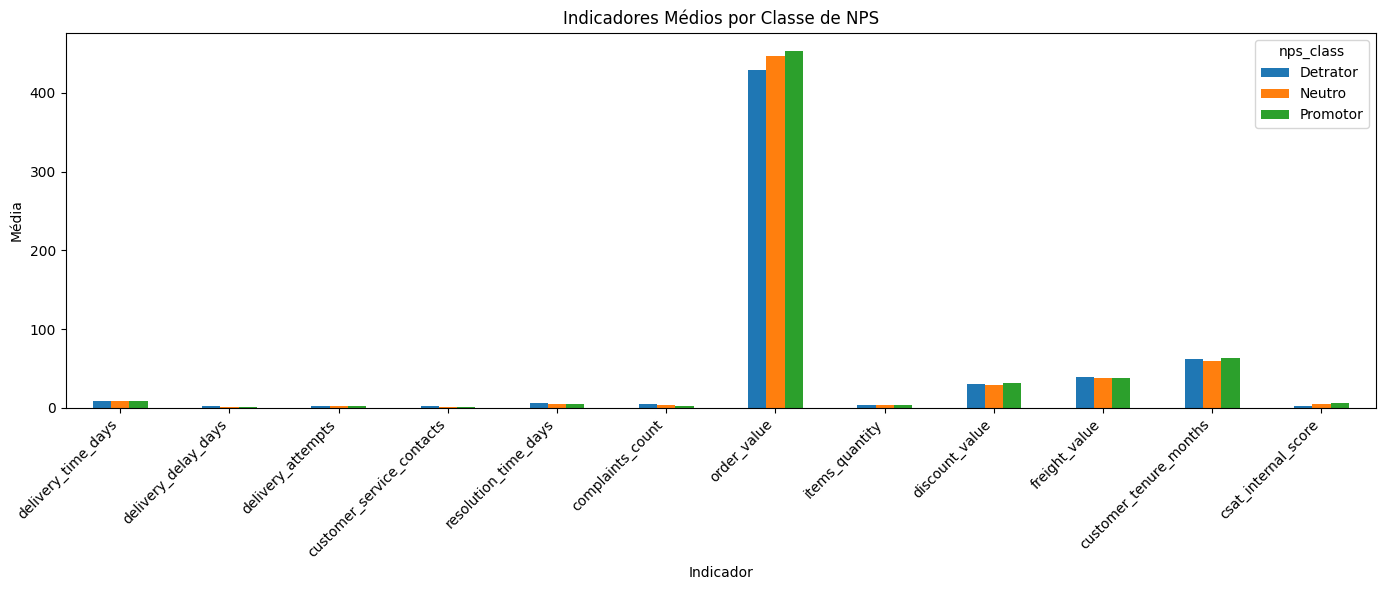
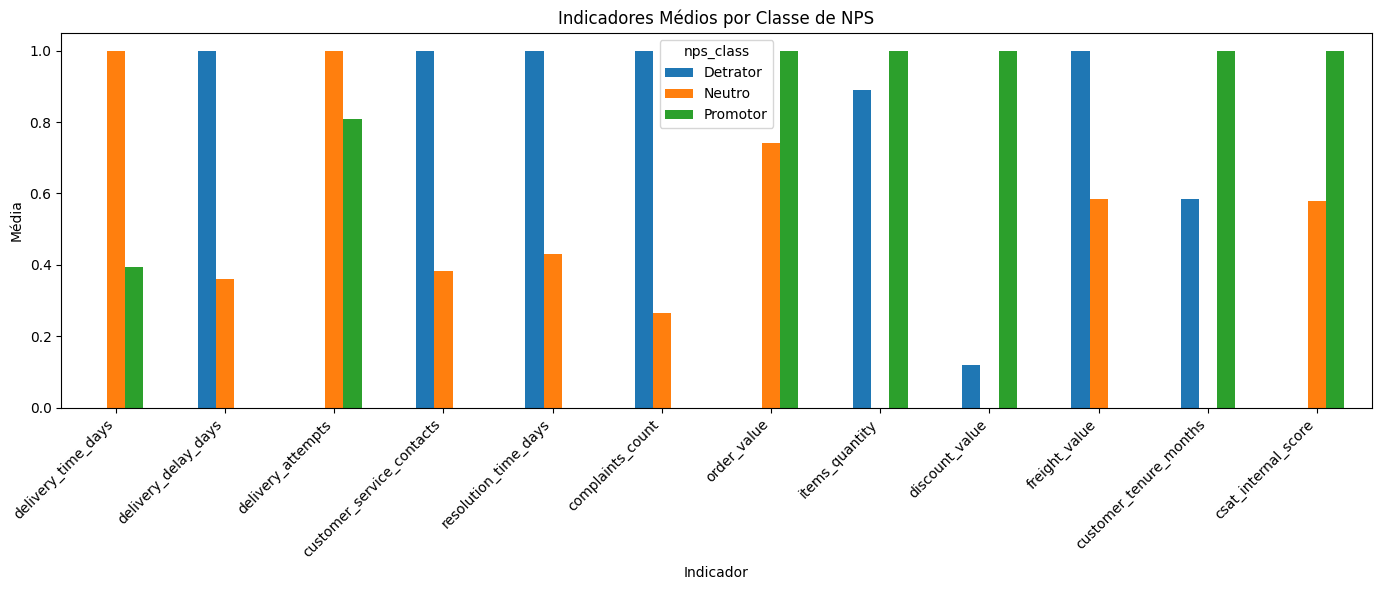
Ajuste Readme

diff --git a/README.md b/README.md
@@ -52,8 +52,8 @@ níveis muito diferentes de satisfação.
 
 ## 📊 Visualizações
 
-![Distribuição](reports\figures\nps_distribution.png)
-![Distribuição por Classe](reports\figures\nps_class_distribution.png)
+![Distribuição](https://raw.githubusercontent.com/EdsonDoro/TechChallenge-Fase1/main/reports/figures/nps_distribution.png)
+![Distribuição por Classe](https://github.com/EdsonDoro/TechChallenge-Fase1/raw/main/reports/reports\figures\nps_class_distribution.png)
 ![Correlação](reports\figures\top_correlacoes_nps.png)
 ![Heatmap Correlação](reports\figures\heatmap_correlacao.png)
 ![Atraso](reports\figures\delay_vs_nps.png)
